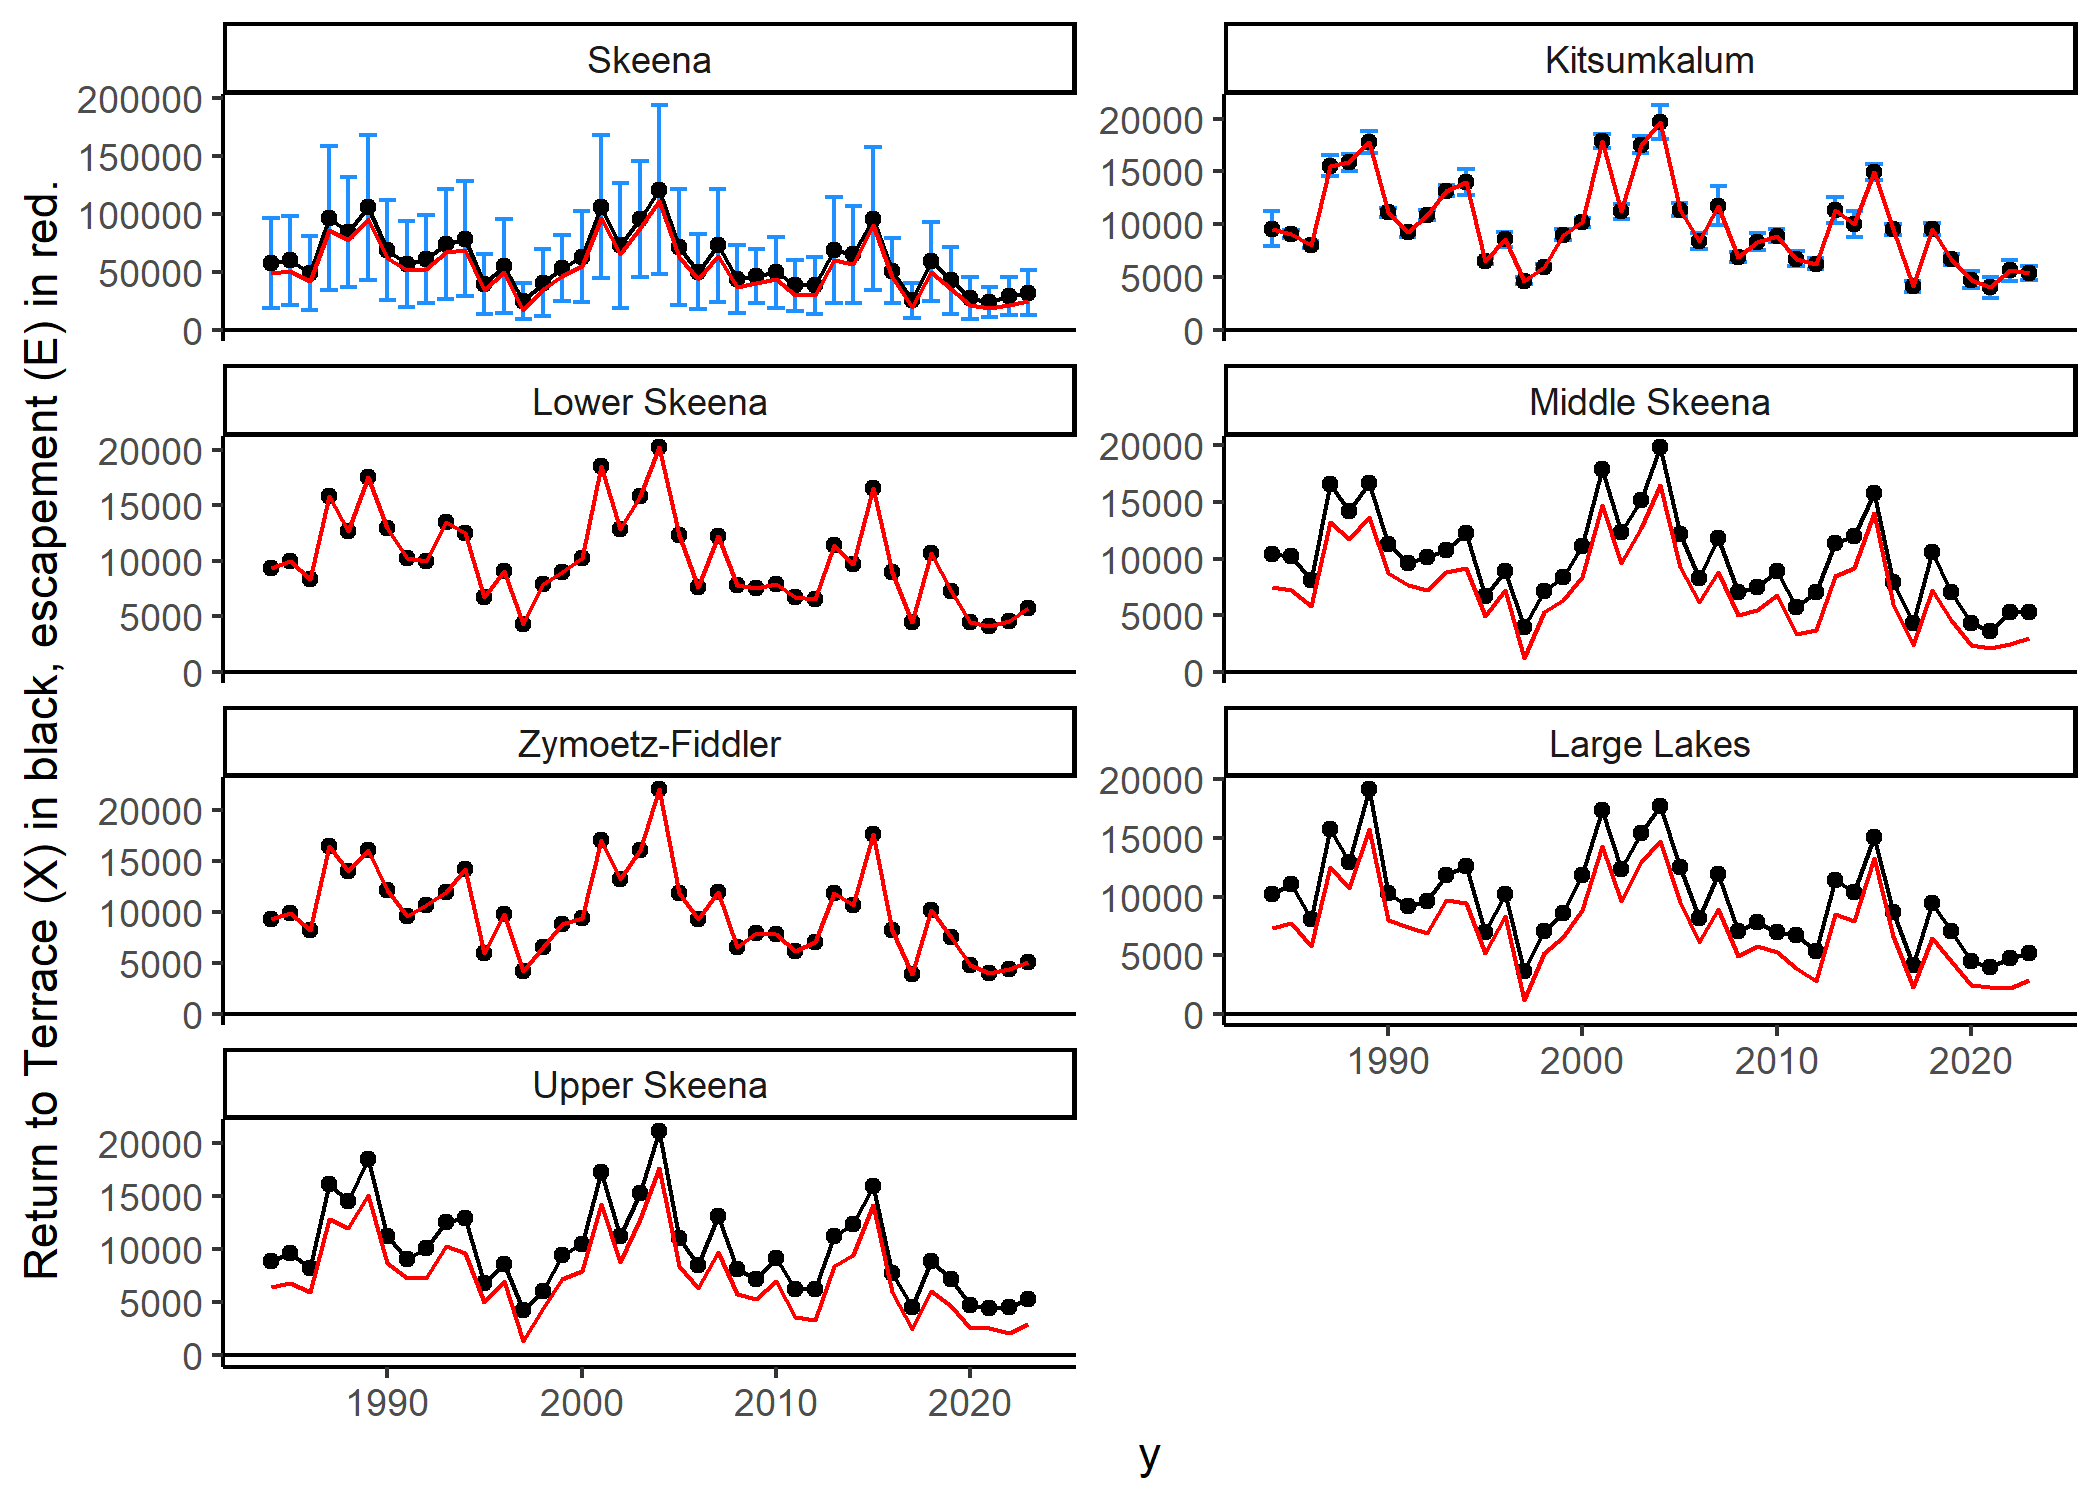
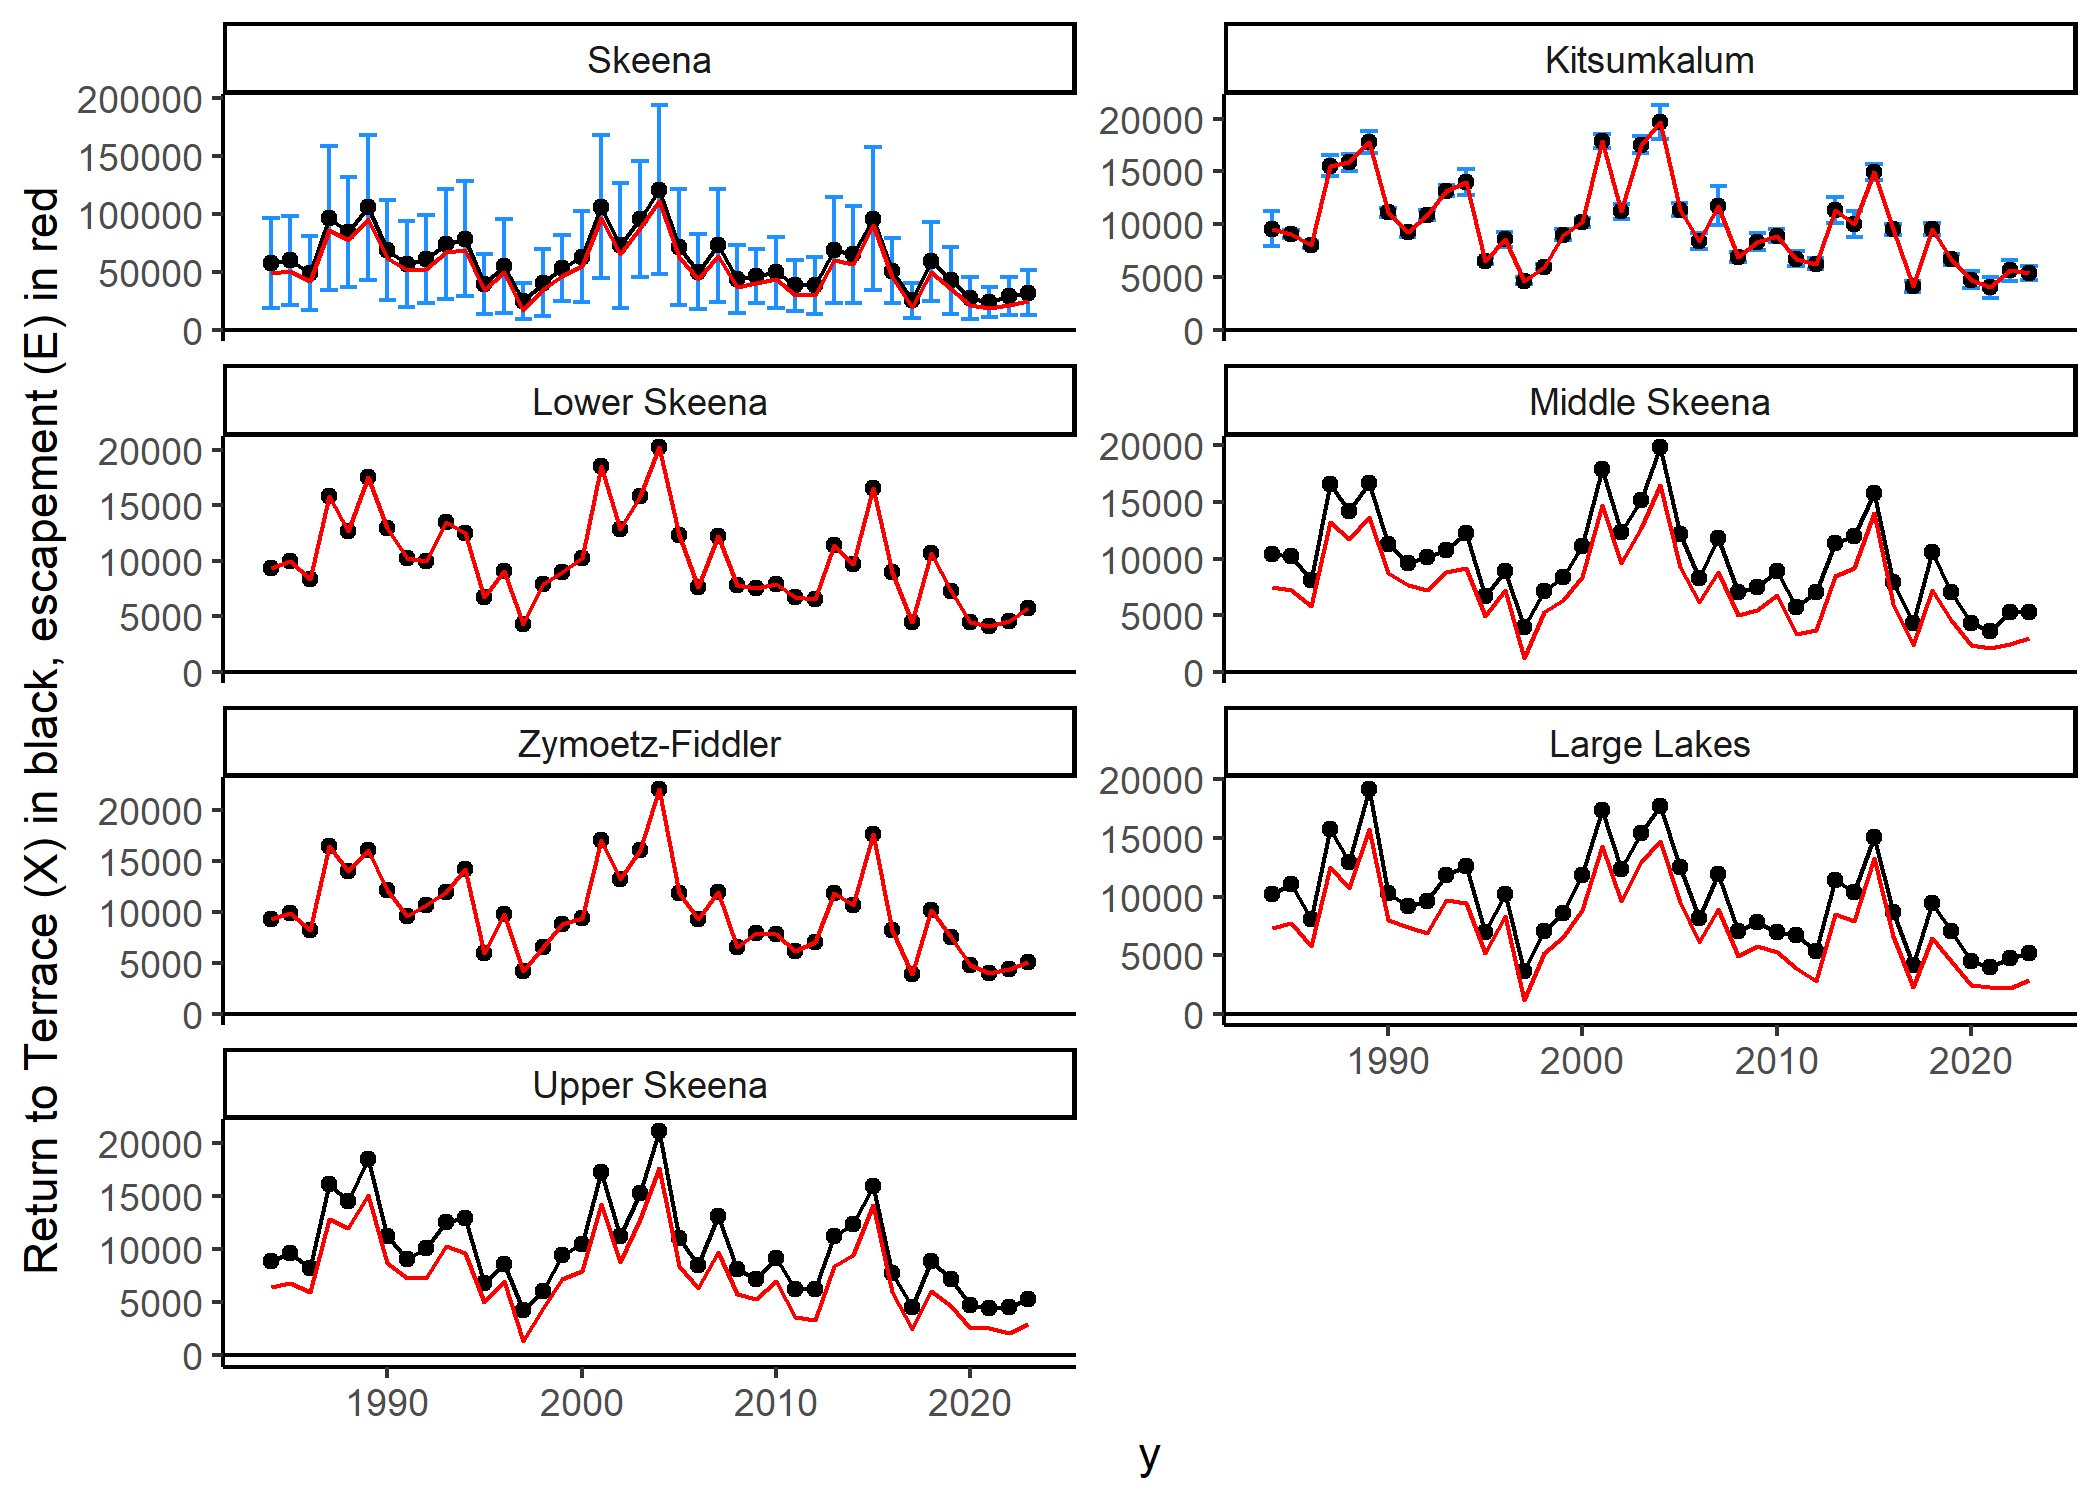
Add general theory to markdown

Changed region(s): [[0.0, 0.1227, 0.031, 0.8587]]

diff --git a/README.md b/README.md
@@ -13,6 +13,23 @@ for Skeena River (summer run timing) Chinook upstream of Tyee test
 fishery, as documented in [Winther et
 al. 2024](https://publications.gc.ca/site/eng/9.901355/publication.html "An assessment of Skeena River Chinook salmon using genetic stock identification 1984 to 2020")
 
+## General methods
+
+Here, we take a known abundance of population $K$ and expand it to
+estimate an aggregate population size $X_{aggregate}$ using the
+proportion of fish from population $K$ in a mixed genetic sample, $P_K$:
+
+$$X_{aggregate} = \frac{K}{P_K}$$ Further, the abundance of other
+populations $X_i$ can be estimated using their genetic proportion $P_i$
+and the aggregate abundance $X_{aggregate}$:
+
+$$X_i = X_{aggregate} \cdot P_i$$ After that, the run is
+“reconstructed”, i.e., from the time the fish are age 3 ocean fish, all
+mortalities (fishery, incidental mortality, brood stock) are added to
+the estimate of spawners to estimate total recruits produced by each
+cohort. This produces estimates of spawners and recruits by brood year,
+which can then be use to model productivity.
+
 ## Installation
 
 You can install the development version of skrunchy from
@@ -89,7 +106,7 @@ ggplot(dt, aes(y = X, x = y, group = i)) +
   geom_line() +
   geom_line(data = de, aes(y = E, x = y, group=i), colour="red") +
   facet_wrap(~i, ncol=2, scales = "free_y") +
-  ylab("Return to Terrace (X) in black, escapement (E) in red.") +
+  ylab("Return to Terrace (X) in black, escapement (E) in red") +
   geom_hline(aes(yintercept=0)) +
   theme_classic()
 ```
